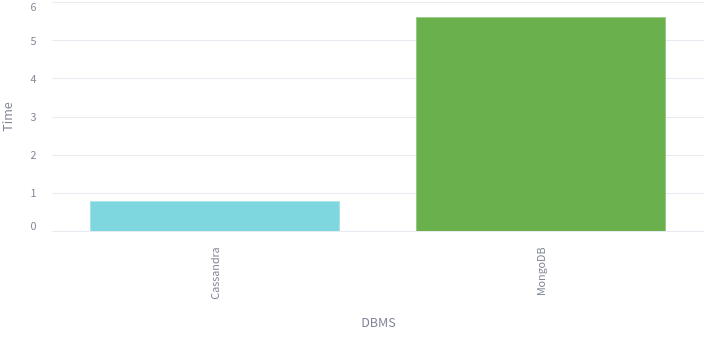
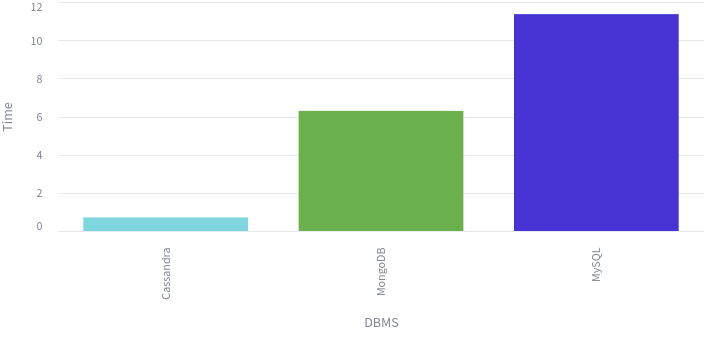
add mysql

diff --git a/db/mysql/mysql_service.py b/db/mysql/mysql_service.py
@@ -1,0 +1,135 @@
+import os
+import mysql.connector
+from db.base_service import BaseService
+
+
+class MySQLService(BaseService):
+
+    def connect(self):
+        self.db = mysql.connector.connect(
+            database="cassandra_demo",
+            user="root",
+            password=os.getenv("MYSQL_ROOT_PASSWORD"),
+            host="mysql",
+            port=3306,
+        )
+
+        self.cursor = self.db.cursor()
+
+        self.reset()
+
+        print("Connected to MySQL database")
+
+    def disconnect(self):
+        print("Disconnected from MySQL database")
+        self.db.close()
+
+    def get_time_range(self):
+        query = "SELECT MIN(date), MAX(date) FROM reports"
+
+        self.cursor.execute(query)
+        result = self.cursor.fetchall()
+
+        return result[0]
+
+    def get_reports_by_sensor(self, sensor, date):
+        query = "SELECT * FROM reports WHERE sensor = %s AND date = %s"
+
+        self.cursor.execute(query, (sensor, date))
+        result = self.cursor.fetchall()
+
+        return result
+
+    def get_reports_by_location(self, location, date):
+        query = "SELECT * FROM reports WHERE location = %s AND date = %s"
+
+        self.cursor.execute(query, (location, date))
+        result = self.cursor.fetchall()
+
+        return result
+
+    def get_reports_by_environment(self, environment, date):
+        query = "SELECT * FROM reports WHERE environment = %s AND date = %s"
+
+        self.cursor.execute(query, (environment, date))
+        result = self.cursor.fetchall()
+
+        return result
+
+    def create_report(self, report):
+        query = (
+            "INSERT INTO reports (sensor, location, environment, date, time, "
+            "temperature, humidity, air_quality, pressure, wind_speed, "
+            "wind_direction, gust_speed, dew_point, cloud_cover, visibility, "
+            "precipitation_intensity, precipitation_type, uv_index, "
+            "solar_radiation, soil_temperature, soil_moisture) "
+            "VALUES (%s, %s, %s, %s, %s, %s, %s, %s, %s, %s, "
+            "%s, %s, %s, %s, %s, %s, %s, %s, %s, %s, %s)"
+        )
+
+        report["date"] = report["time"].strftime("%Y-%m-%d")
+
+        self.cursor.execute(
+            query,
+            (
+                report["sensor"],
+                report["location"],
+                report["environment"],
+                report["date"],
+                report["time"],
+                report["temperature"],
+                report["humidity"],
+                report["air_quality"],
+                report["pressure"],
+                report["wind_speed"],
+                report["wind_direction"],
+                report["gust_speed"],
+                report["dew_point"],
+                report["cloud_cover"],
+                report["visibility"],
+                report["precipitation_intensity"],
+                report["precipitation_type"],
+                report["uv_index"],
+                report["solar_radiation"],
+                report["soil_temperature"],
+                report["soil_moisture"],
+            ),
+        )
+        self.db.commit()
+
+    def reset(self):
+        # drop reports table
+        self.cursor.execute("DROP TABLE IF EXISTS reports")
+
+        self.db.commit()
+
+        self.cursor.execute(
+            """
+            CREATE TABLE IF NOT EXISTS reports (
+                sensor VARCHAR(255),
+                location VARCHAR(255),
+                environment VARCHAR(255),
+                date DATE,
+                time TIMESTAMP,
+                temperature DECIMAL(5,2),
+                humidity DECIMAL(5,2),
+                air_quality DECIMAL(5,2),
+                pressure DECIMAL(7,2),
+                wind_speed DECIMAL(5,2),
+                wind_direction VARCHAR(50),
+                gust_speed DECIMAL(5,2),
+                dew_point DECIMAL(5,2),
+                cloud_cover DECIMAL(5,2),
+                visibility DECIMAL(5,2),
+                precipitation_intensity DECIMAL(5,2),
+                precipitation_type VARCHAR(50),
+                uv_index DECIMAL(5,2),
+                solar_radiation DECIMAL(7,2),
+                soil_temperature DECIMAL(5,2),
+                soil_moisture DECIMAL(5,2),
+                INDEX (sensor)
+            );
+            """
+        )
+
+        self.db.commit()

diff --git a/demo.py b/demo.py
@@ -1,4 +1,4 @@
-from db import MongoDBService, CassandraService
+from db import MongoDBService, CassandraService, MySQLService
 import streamlit as st
 from timeit import default_timer as timer
 
@@ -6,6 +6,11 @@ from timeit import default_timer as timer
 @st.cache_resource
 def get_service():
     services = [
+        {
+            "name": "MySQL",
+            "service": MySQLService(),
+            "color": "#4834d4",
+        },
         {
             "name": "MongoDB",
             "service": MongoDBService(),

diff --git a/db/__init__.py b/db/__init__.py
@@ -1,4 +1,5 @@
 from .mongodb import MongoDBService
 from .cassandra import CassandraService
+from .mysql import MySQLService
 
-__all__ = ["MongoDBService", "CassandraService"]
+__all__ = ["MongoDBService", "CassandraService", "MySQLService"]

diff --git a/db/mysql/__init__.py b/db/mysql/__init__.py
@@ -1,0 +1,3 @@
+from .mysql_service import MySQLService
+
+__all__ = ["MySQLService"]
